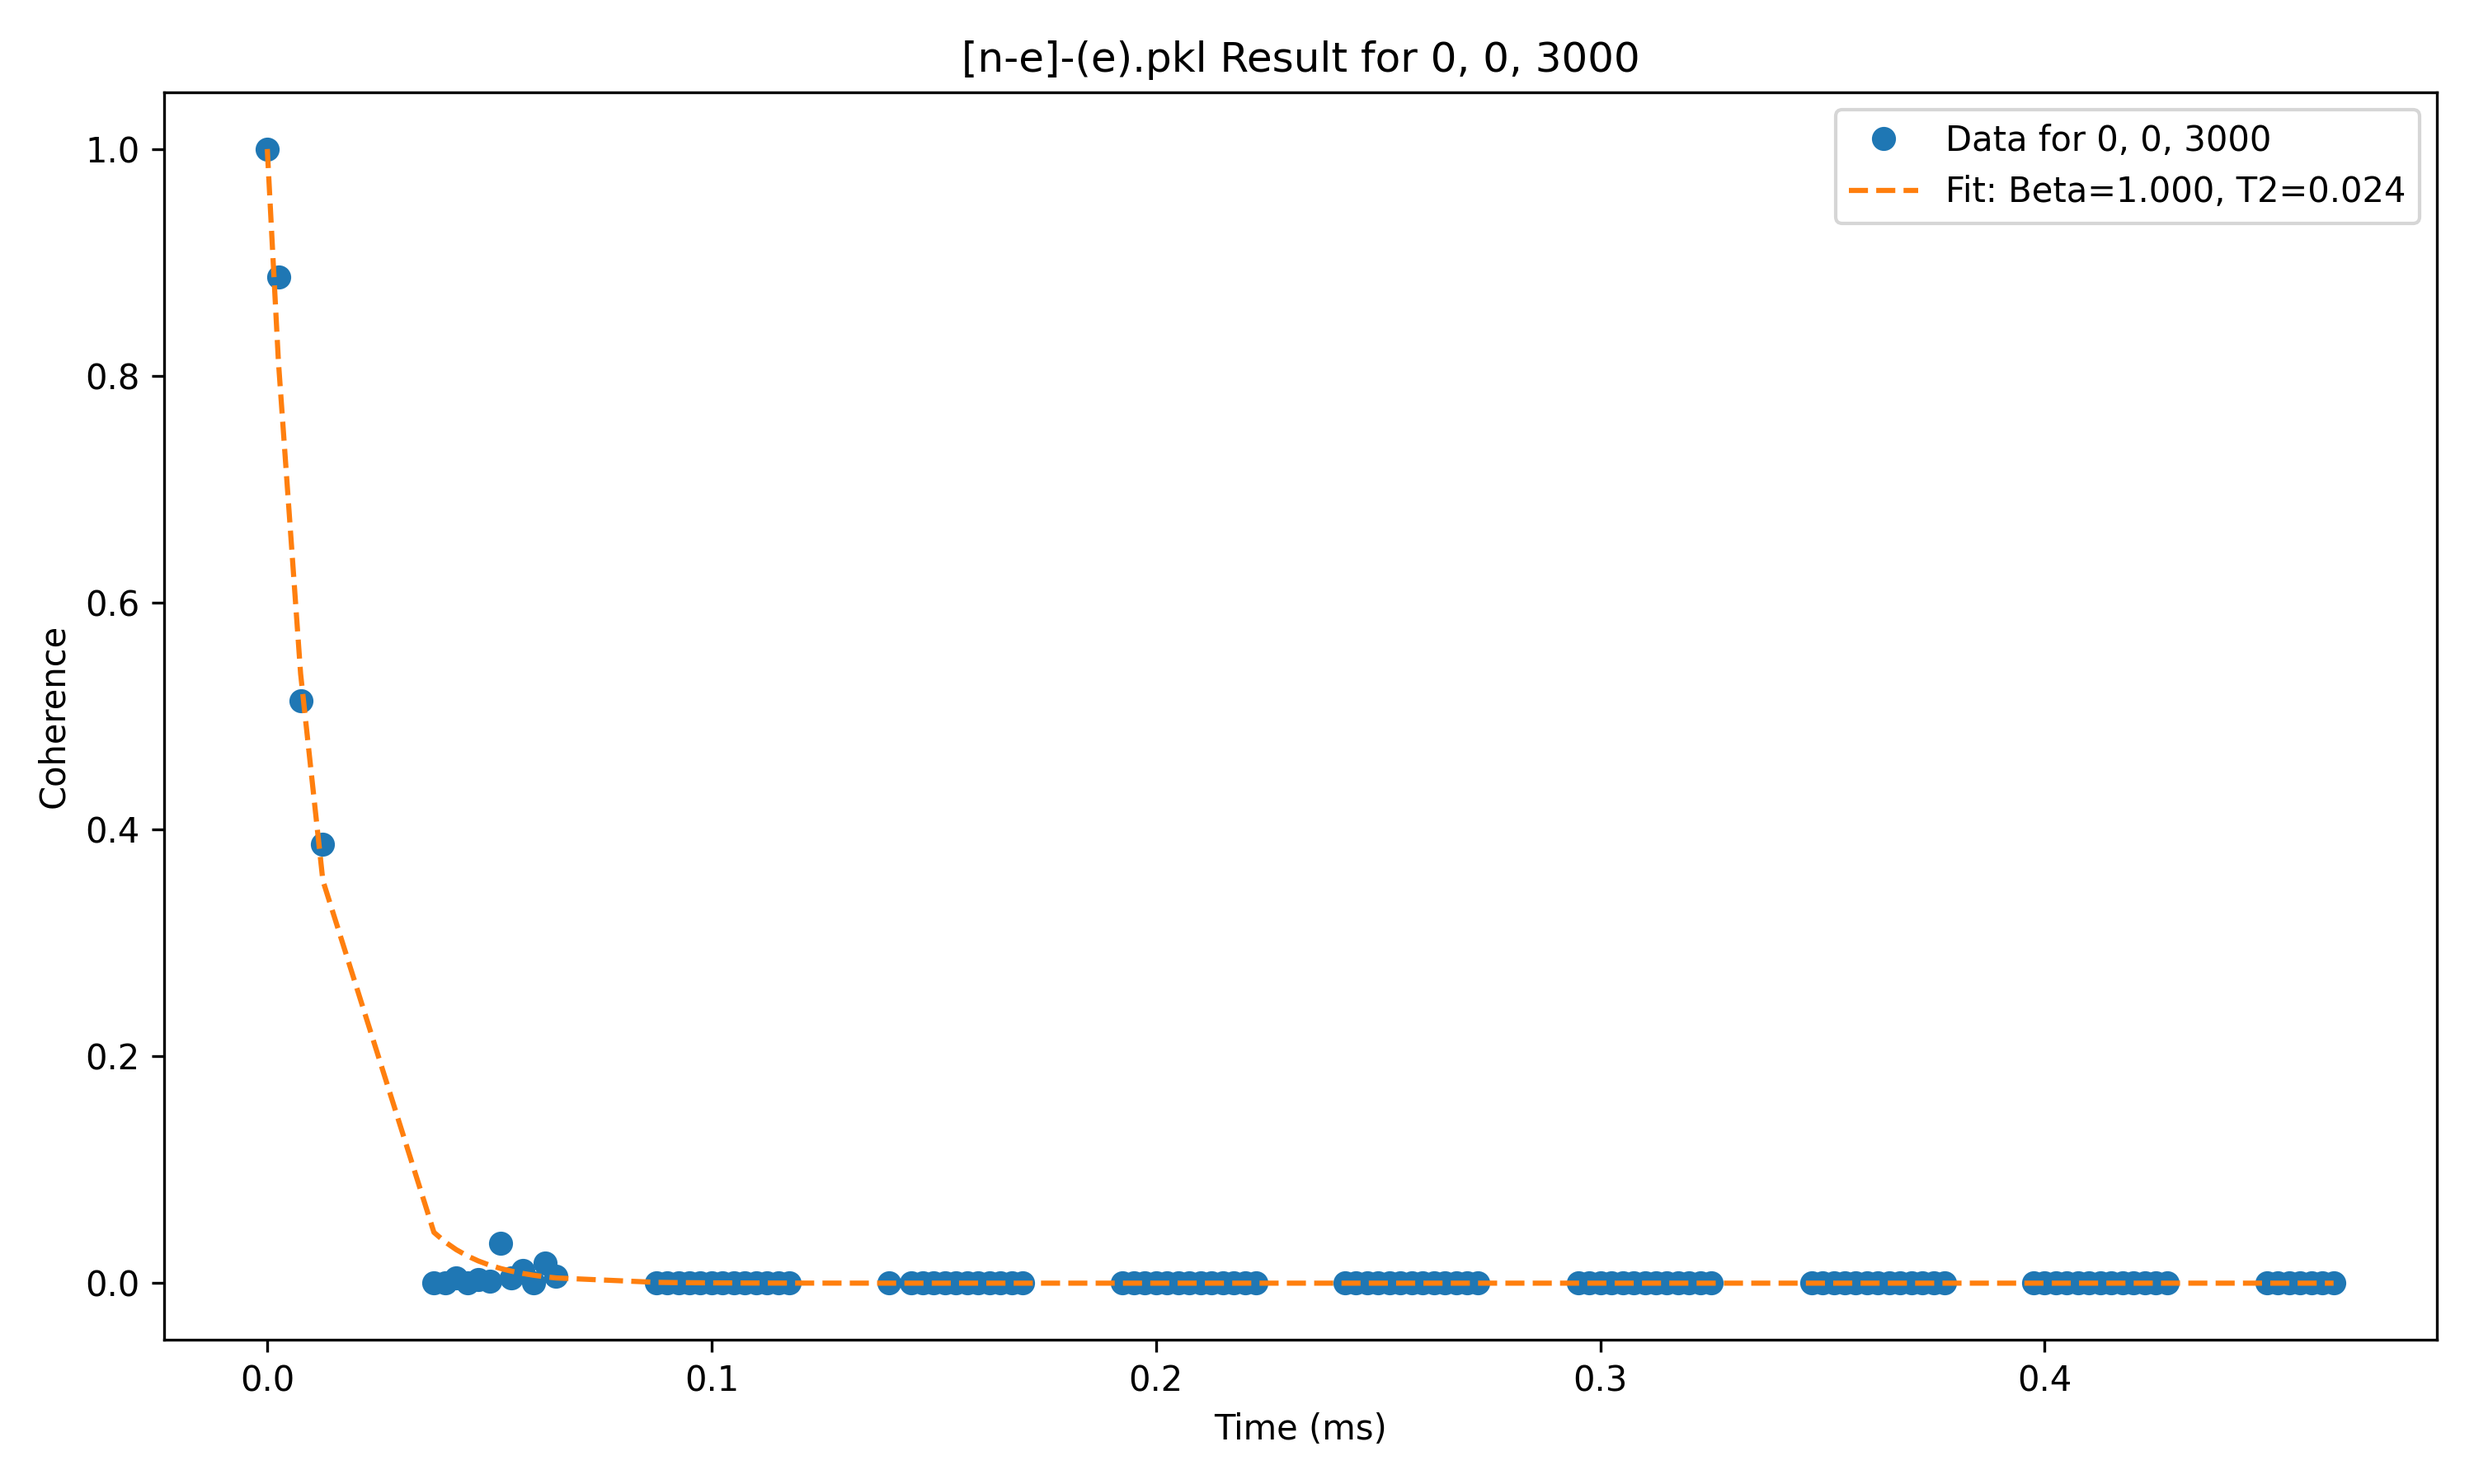
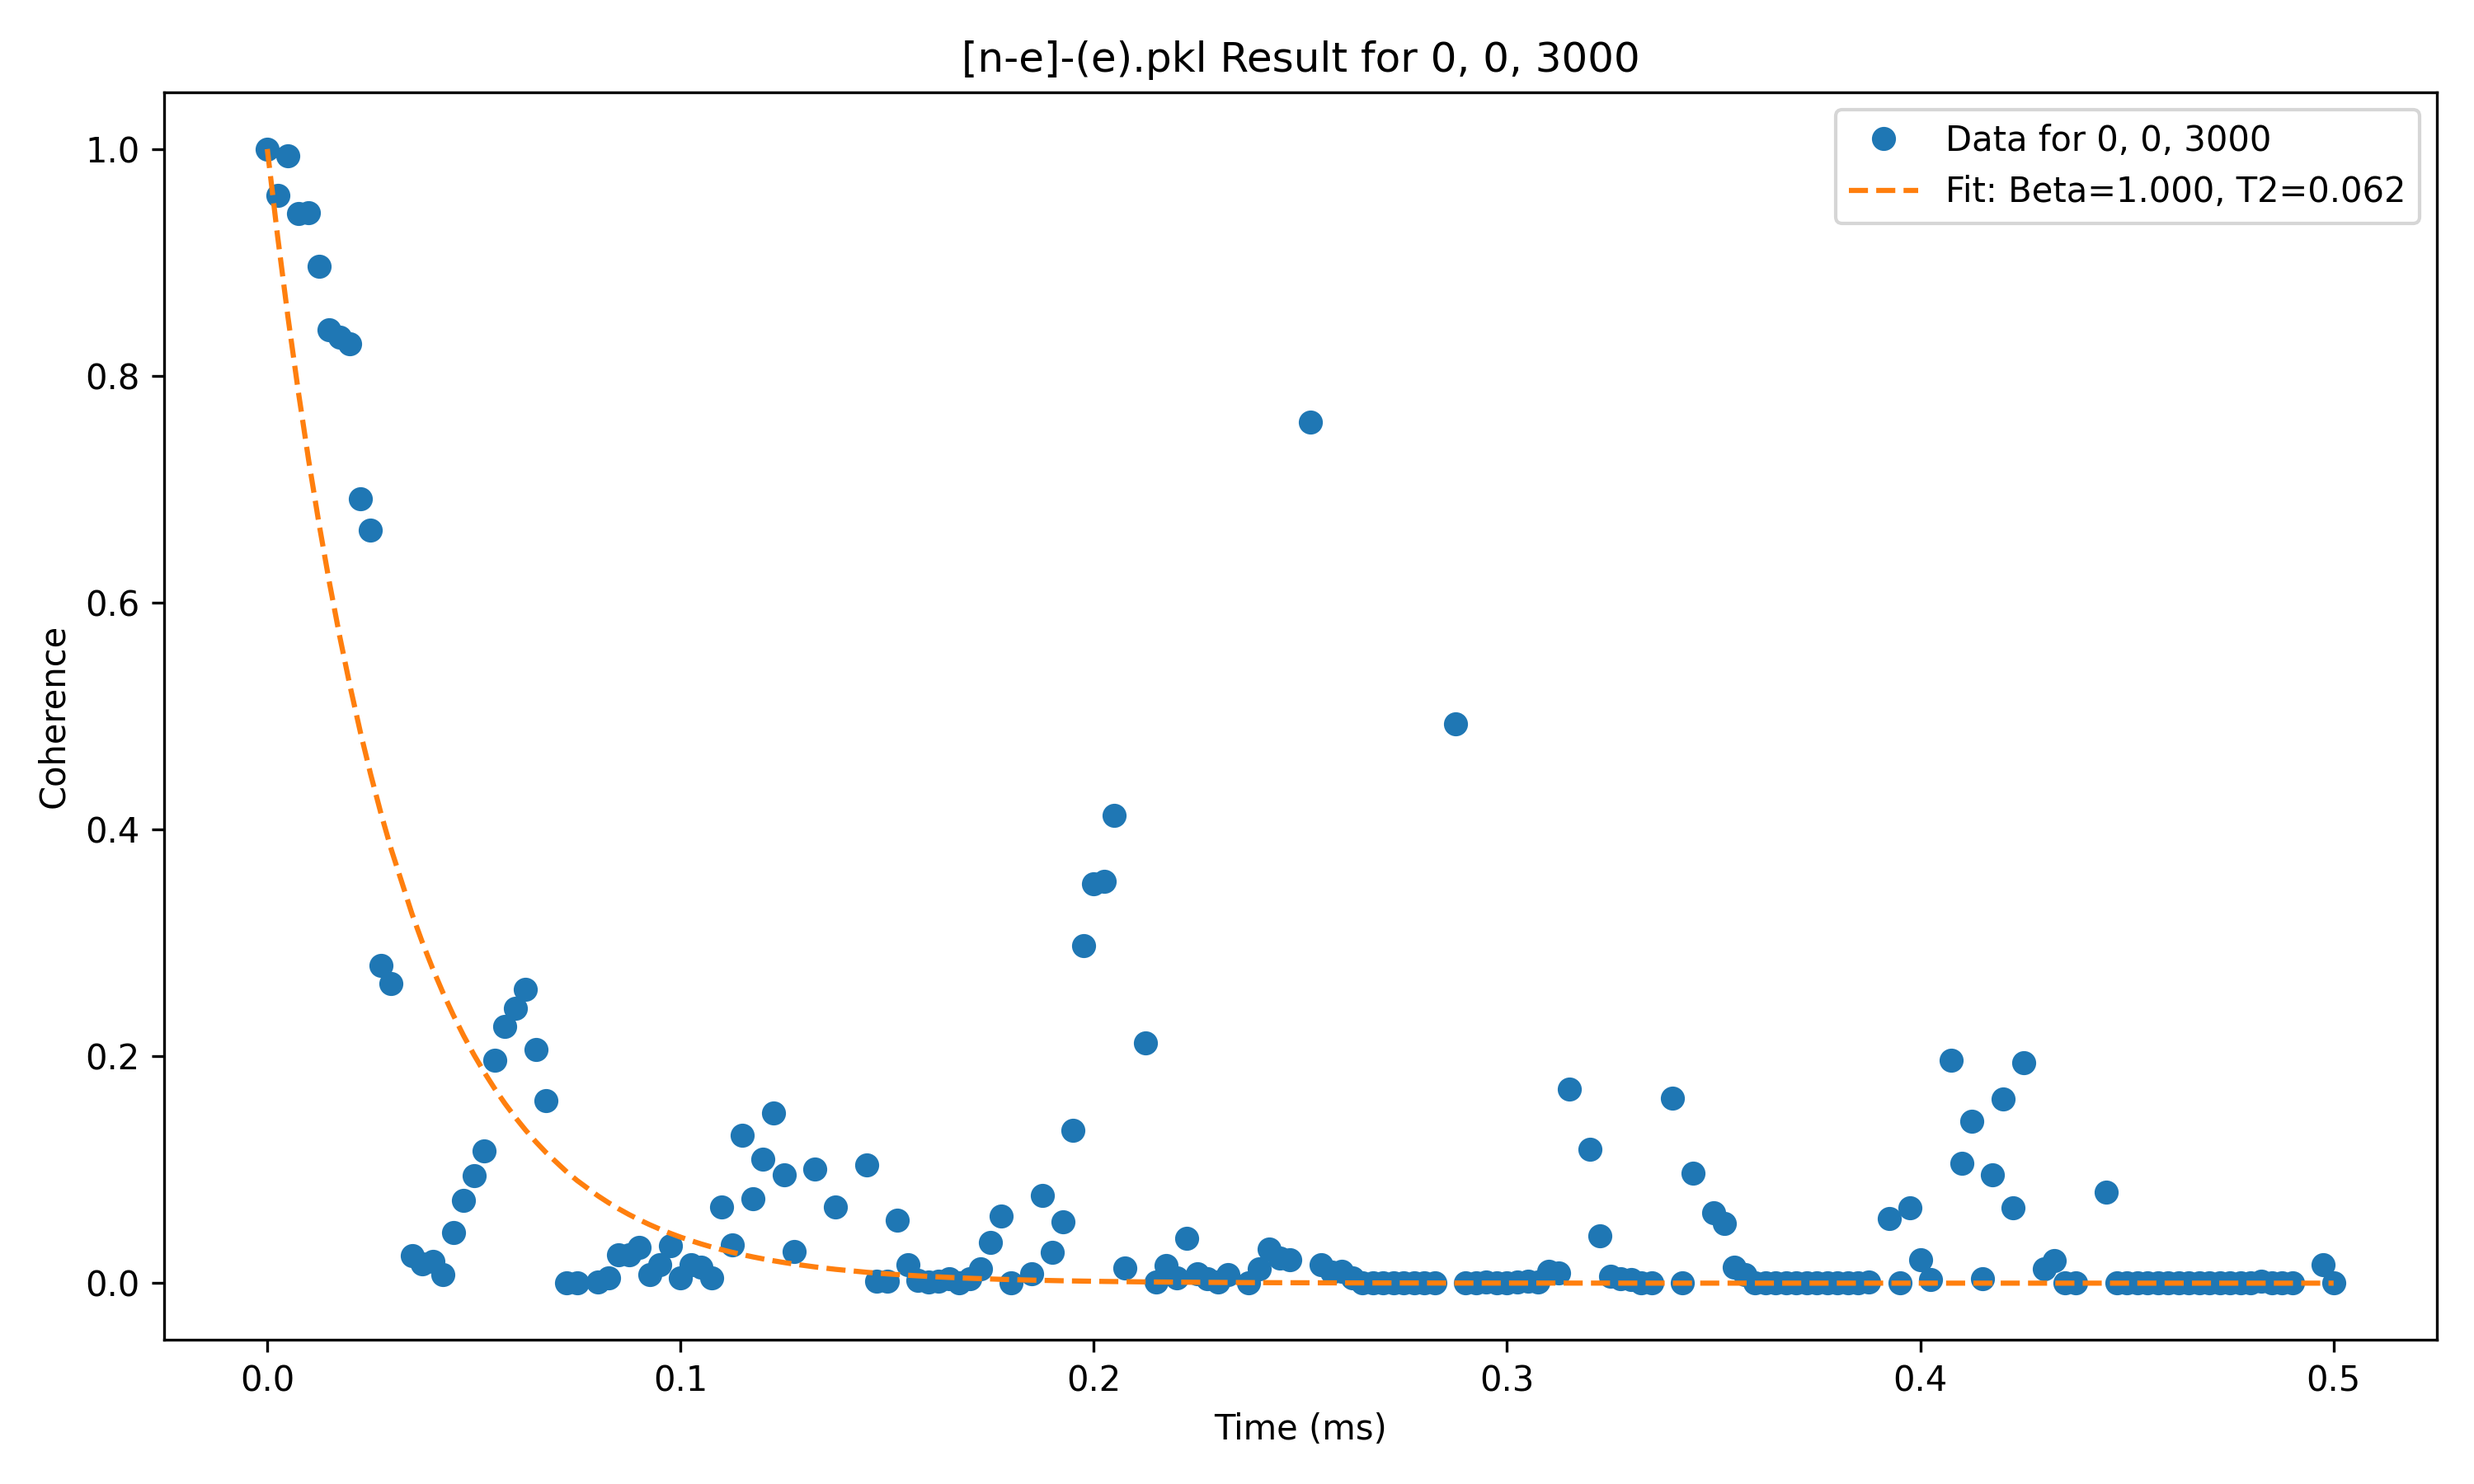
Great result, bang on the mark with T2=62us

diff --git a/VOTPP folder/VOTPP_[n-e]-(e).py b/VOTPP folder/VOTPP_[n-e]-(e).py
@@ -216,7 +216,7 @@ if rank ==0:
 default_calc_parameters = {
     'timespace': timespace_absolute, # 7e-2
     'method': 'gcce',
-    'nbstates': 10, #!
+    'nbstates': 100, #!
     'quantity': 'coherence',
     'parallel': True,
     'parallel_states': True,
@@ -230,8 +230,8 @@ default_bath_parameters = {
 
 default_simulator_parameters = { ########## These should be greater when simulating with HPC
     'order': 3, # 3
-    'r_bath': 110, # 70
-    'r_dipole': 90, # 50
+    'r_bath': 70, # 70
+    'r_dipole': 60, # 50
     'magnetic_field': [0, 0, 3000], # Magnetic field in Gauss
     'pulses': hahn_echo_sequence,
 }
